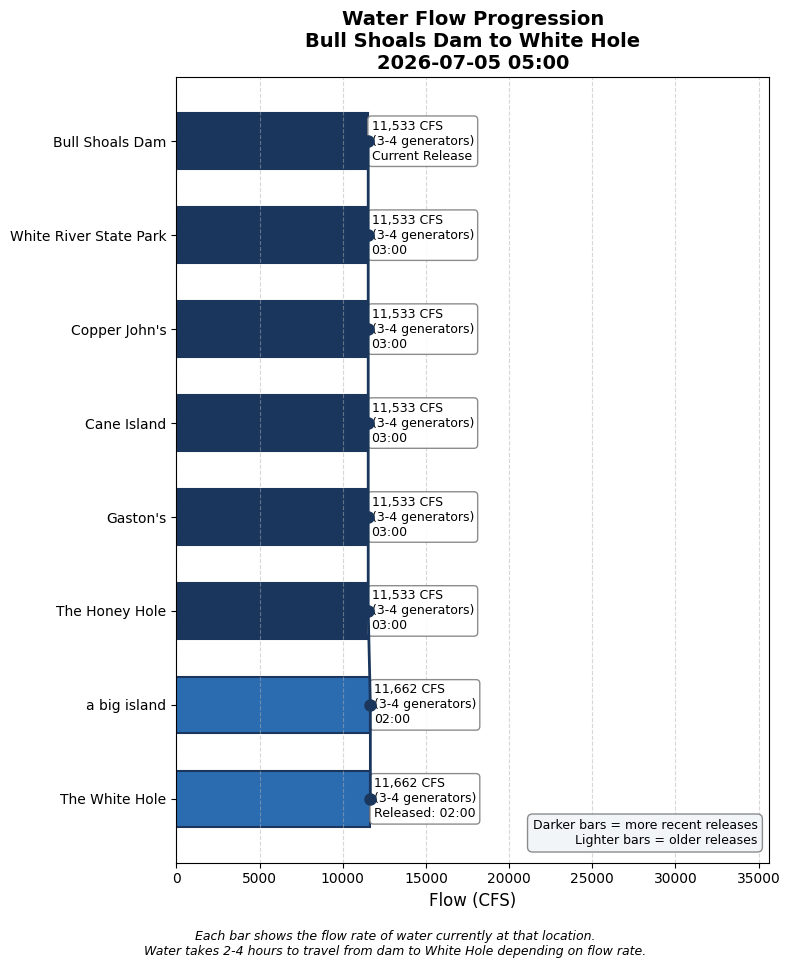
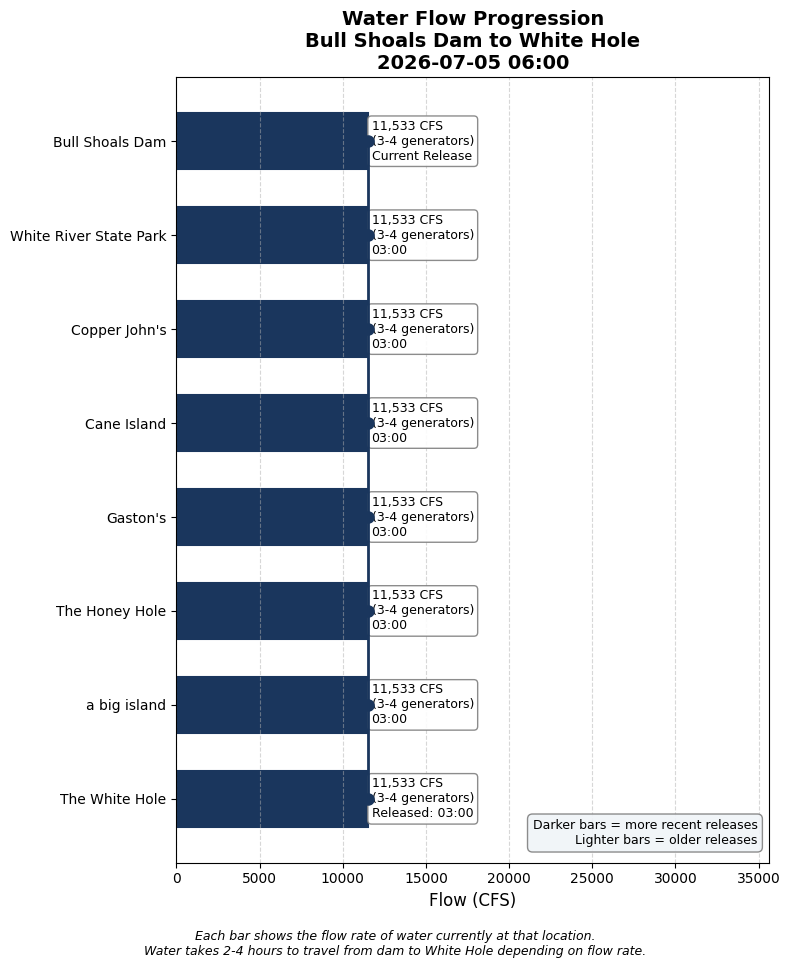
Update water conditions 2026-07-05 06:00

Changed region(s): [[0.2127, 0.6818, 0.6076, 0.8678]]

diff --git a/white_hole_conditions.html b/white_hole_conditions.html
@@ -3,7 +3,7 @@
 <head>
     <meta charset="UTF-8">
     <meta name="viewport" content="width=device-width, initial-scale=1.0">
-    <title>White Hole Conditions - 2026-07-05 05:00</title>
+    <title>White Hole Conditions - 2026-07-05 06:00</title>
     <style>
         body {
             font-family: -apple-system, BlinkMacSystemFont, 'Segoe UI', Roboto, sans-serif;
@@ -148,7 +148,7 @@
 </head>
 <body>
     <h1>White Hole Current Conditions</h1>
-    <p class="subtitle">Sunday, July 05, 2026 at 05:00 AM</p>
+    <p class="subtitle">Sunday, July 05, 2026 at 06:00 AM</p>
 
     <!-- HEADLINE BANNER -->
     <div class="headline-banner">
@@ -160,7 +160,7 @@
     <!-- CURRENT CONDITIONS -->
     <div class="current-conditions">
         <h3>Current Conditions at White Hole</h3>
-        <div class="flow-display">11,662 CFS</div>
+        <div class="flow-display">11,533 CFS</div>
         <div class="generator-display">Equivalent to 3-4 generators</div>
         <div class="condition-pills">
             <span class="pill wading">No Wading</span>
@@ -189,6 +189,14 @@
                 <tr><td colspan="3" style="padding: 8px 10px; font-size: 0.8em; font-weight: bold; color: #6b46c1; text-transform: uppercase; letter-spacing: 0.05em; background-color: #f3e8ff;">Scheduled (SWPA forecast)</td></tr>
                 
                     <tr style="background-color: #faf5ff; ">
+                        <td style="padding: 10px; font-weight: bold;">9 AM</td>
+                        <td style="padding: 10px;">19,493 CFS<br><small style="color: #666;">(5-6 generators: 19243 generation + 250 min flow)</small></td>
+                        <td style="padding: 10px;">~11:05 AM
+                            <span style="display: inline-block; margin-left: 6px; padding: 2px 8px; border-radius: 12px; font-size: 0.8em; background-color: #fee2e2; color: #991b1b;">No Wading</span>
+                        </td>
+                    </tr>
+                
+                    <tr style="background-color: #faf5ff; ">
                         <td style="padding: 10px; font-weight: bold;">8 AM</td>
                         <td style="padding: 10px;">17,670 CFS<br><small style="color: #666;">(5-6 generators: 17420 generation + 250 min flow)</small></td>
                         <td style="padding: 10px;">~10:10 AM
@@ -212,27 +220,13 @@
                         </td>
                     </tr>
                 
-                    <tr style="background-color: #faf5ff; ">
-                        <td style="padding: 10px; font-weight: bold;">5 AM</td>
-                        <td style="padding: 10px;">10,378 CFS<br><small style="color: #666;">(3-4 generators: 10128 generation + 250 min flow)</small></td>
-                        <td style="padding: 10px;">~7:37 AM
-                            <span style="display: inline-block; margin-left: 6px; padding: 2px 8px; border-radius: 12px; font-size: 0.8em; background-color: #fee2e2; color: #991b1b;">No Wading</span>
-                        </td>
-                    </tr>
-                
             
                     
                 <tr><td colspan="3" style="padding: 8px 10px; font-size: 0.8em; font-weight: bold; color: #2b6cb0; text-transform: uppercase; letter-spacing: 0.05em; background-color: #ebf8ff;">Actual (dam readings)</td></tr>
                 
-                    <tr style="background-color: #ebf8ff;">
+                    <tr style="background-color: #e6fffa;">
                         <td style="padding: 10px; font-weight: bold;">3:00 AM</td>
                         <td style="padding: 10px;">11,533 CFS<br><small style="color: #666;">(3-4 generators)</small></td>
-                        <td style="padding: 10px;"><span style="color: #2b6cb0;">→ Arrives ~5:32 AM (in 32 min)</span></td>
-                    </tr>
-                
-                    <tr style="background-color: #e6fffa;">
-                        <td style="padding: 10px; font-weight: bold;">2:00 AM</td>
-                        <td style="padding: 10px;">11,662 CFS<br><small style="color: #666;">(3-4 generators)</small></td>
                         <td style="padding: 10px;"><span style="color: #319795; font-weight: bold;">← AT WHITE HOLE NOW</span></td>
                     </tr>
                 
@@ -270,7 +264,7 @@
             <ul>
                 <li>Latest dam reading: 11,533 CFS at 2026-07-05 03:00</li>
                 <li>Travel time to White Hole: 2.5 hours at current flow</li>
-                <li>White Hole conditions based on dam reading from: 2026-07-05 02:00</li>
+                <li>White Hole conditions based on dam reading from: 2026-07-05 03:00</li>
             </ul>
         </div>
     </details>
@@ -348,13 +342,6 @@
                     <td style="padding: 8px; text-align: right;">2.1</td>
                 </tr>
                 
-                <tr style="border-bottom: 1px solid #eee;">
-                    <td style="padding: 8px;">2026-07-04 18:00</td>
-                    <td style="padding: 8px; text-align: right;">20479</td>
-                    <td style="padding: 8px; text-align: right;">6.2</td>
-                    <td style="padding: 8px; text-align: right;">2.0</td>
-                </tr>
-                
                     </tbody>
                 </table>
             </div>
@@ -362,7 +349,7 @@
         
 
     <div class="timestamp">
-        Data retrieved and processed on 2026-07-05 05:00:19
+        Data retrieved and processed on 2026-07-05 06:00:08
     </div>
 </body>
 </html>
